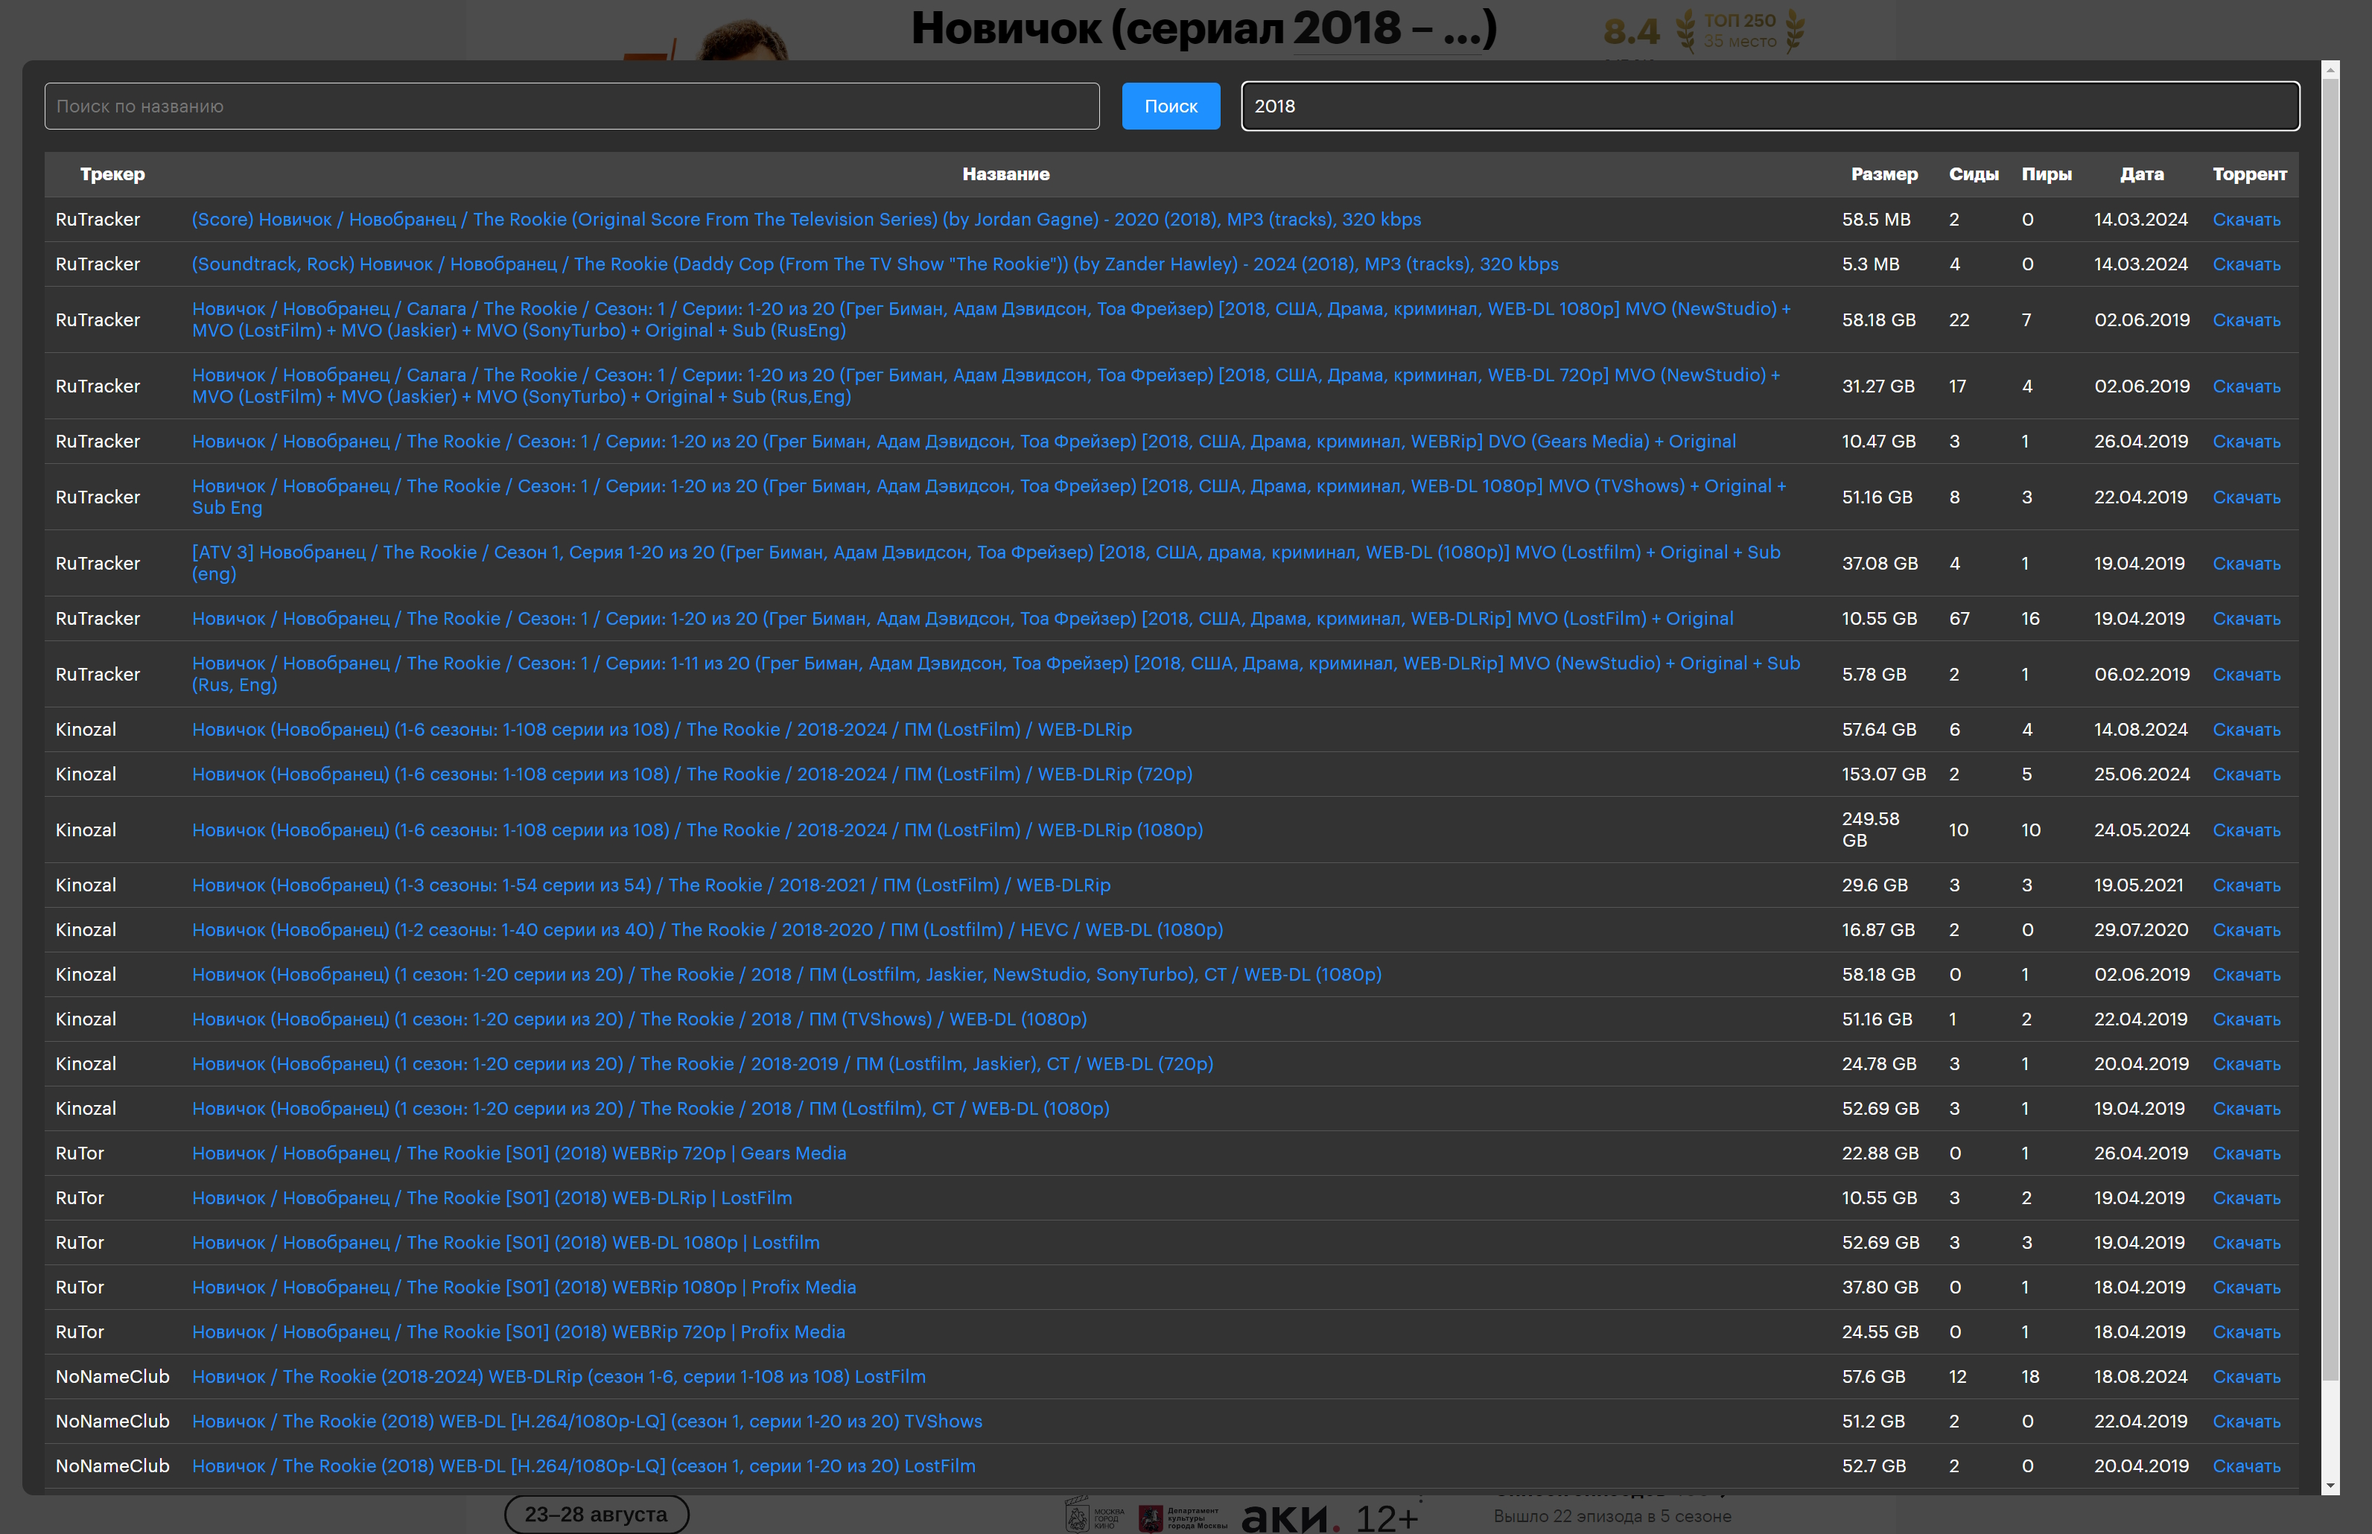
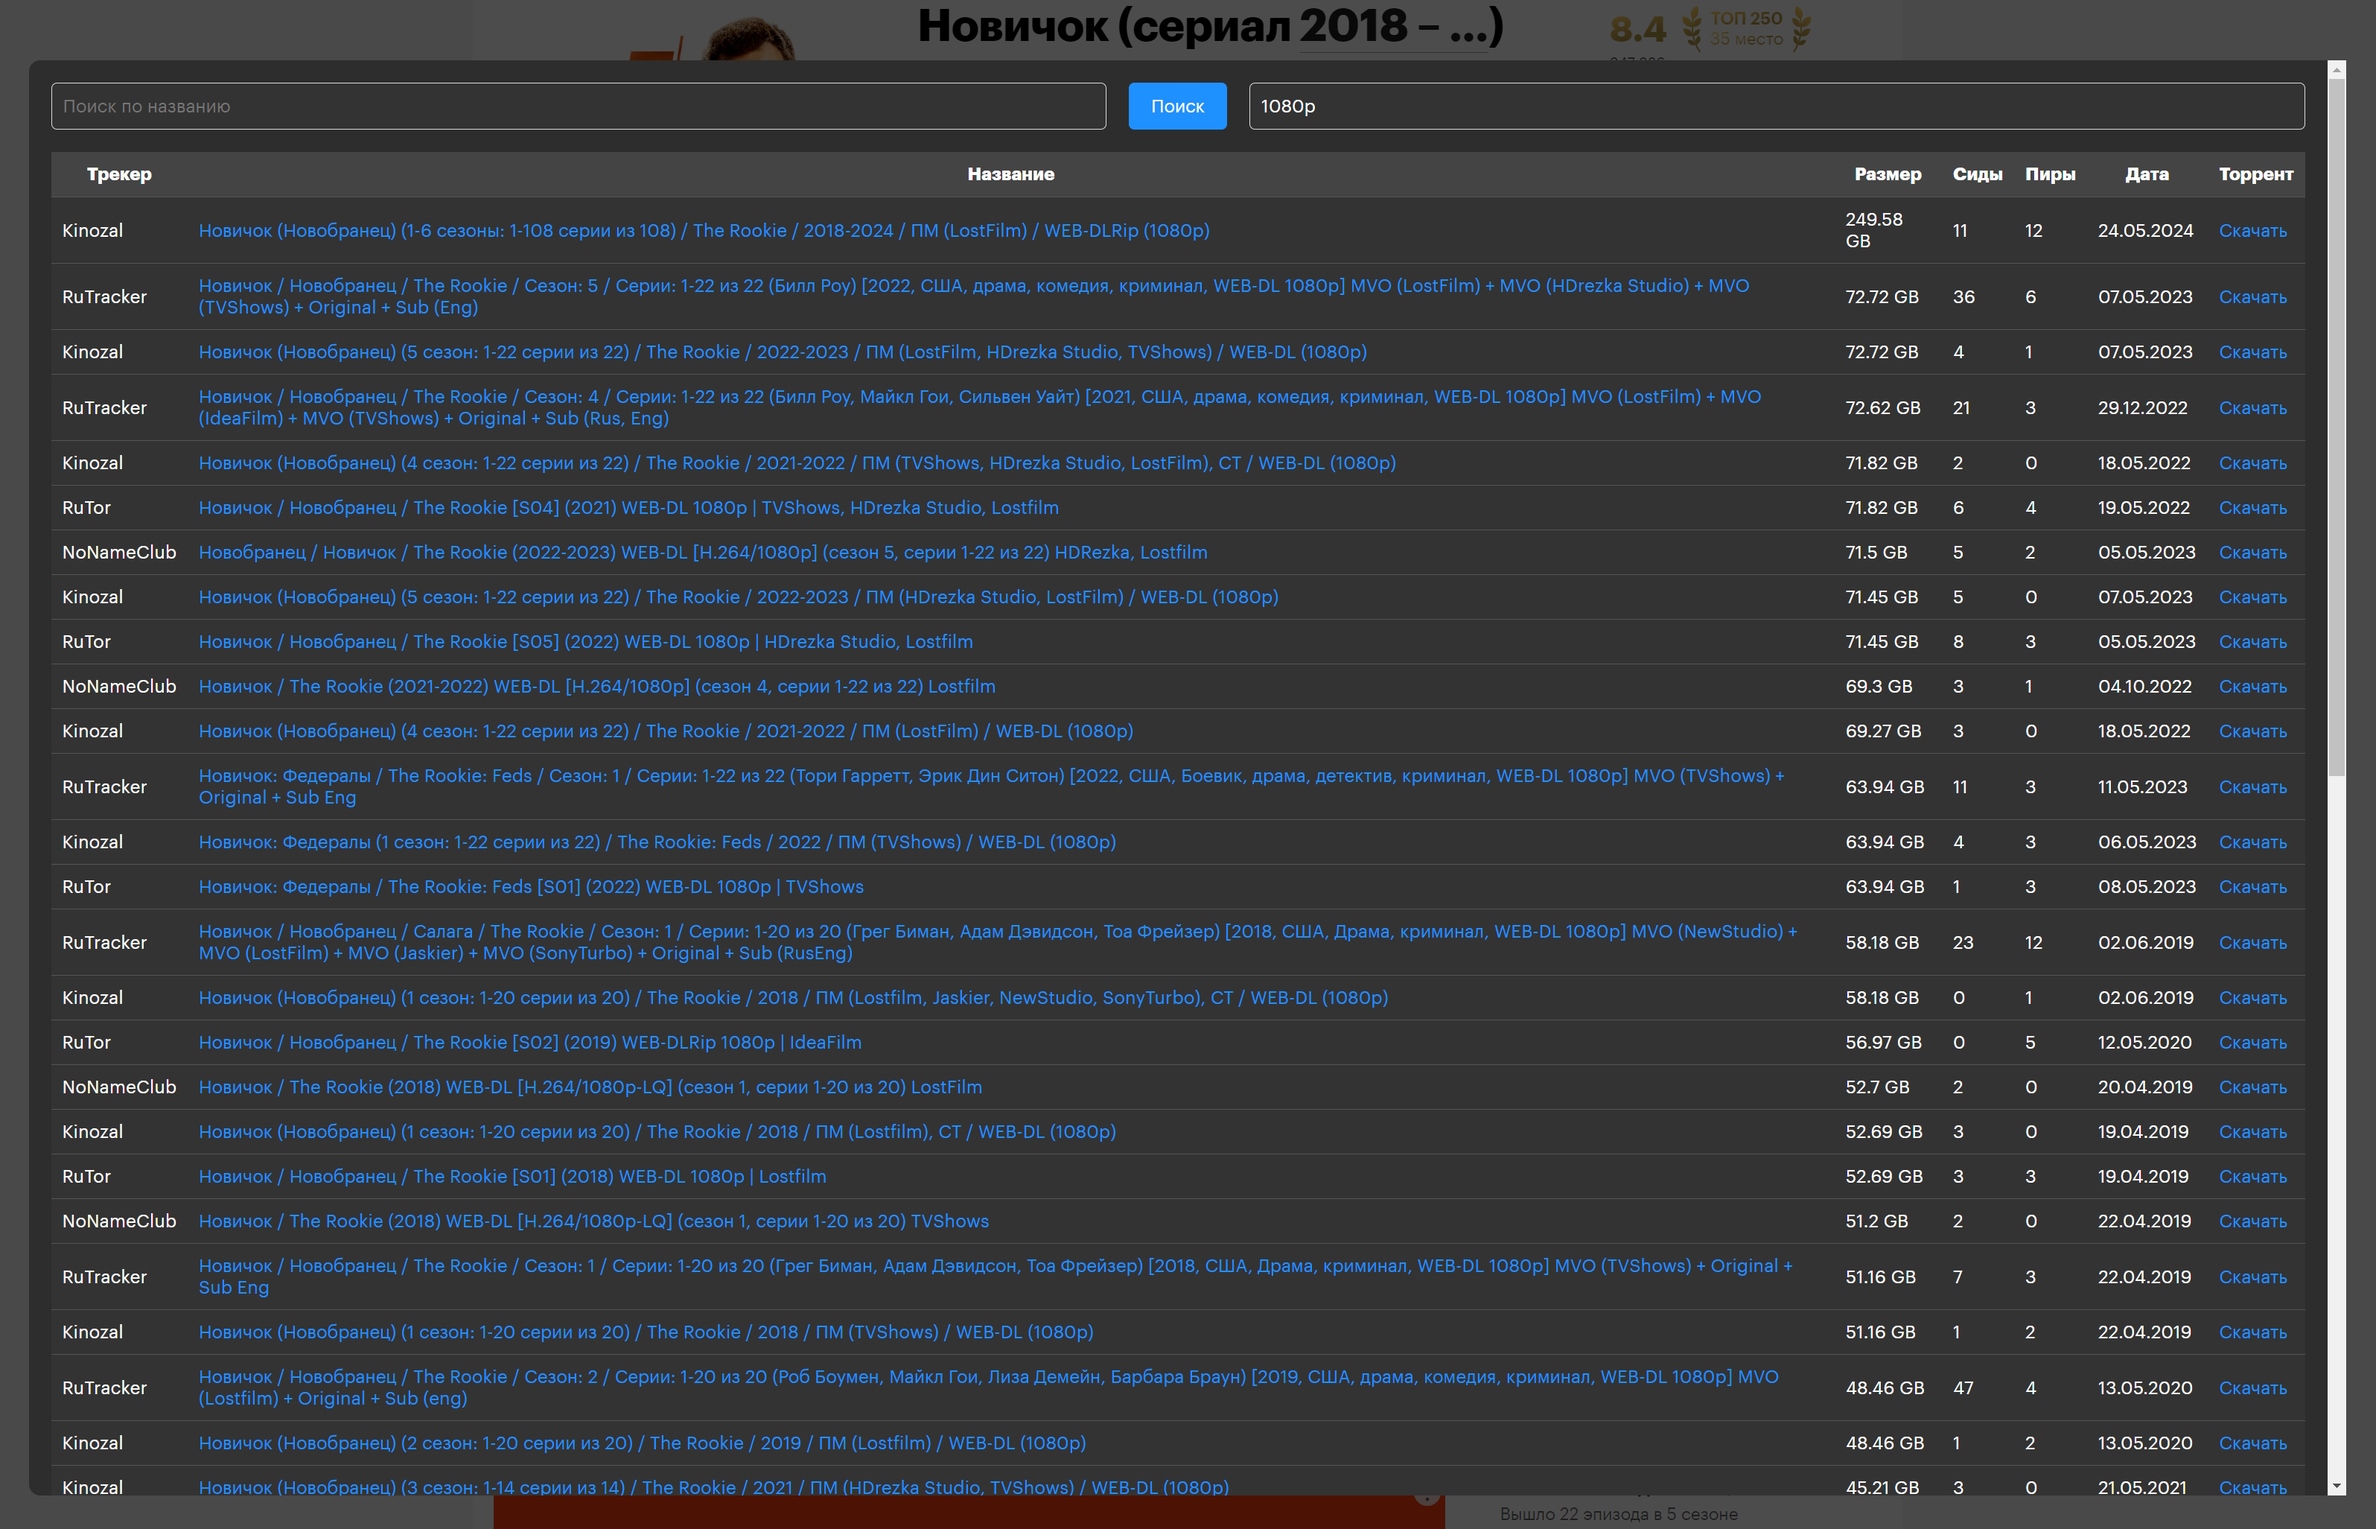
update size

diff --git a/ChromeExtension/torapi.js b/ChromeExtension/torapi.js
@@ -9,19 +9,19 @@ function displayTorrentsOnPage() {
         modal.style.left = '0';
         modal.style.width = '100%';
         modal.style.height = '100%';
-        modal.style.backgroundColor = '#444444';
+        modal.style.backgroundColor = 'rgba(0,0,0,0.7)';
         modal.style.zIndex = '10000';
         modal.style.display = 'flex';
         modal.style.flexDirection = 'column';
         modal.style.alignItems = 'center';
         modal.style.justifyContent = 'center';
         modal.style.fontFamily = 'Lato, sans-serif'; // Устанавливаем шрифт для модального окна
-        modal.style.fontSize = '18px'; // Размер шрифта
+        modal.style.fontSize = '16px'; // Размер шрифта
 
         // Контейнер для таблицы
         const tableContainer = document.createElement('div');
-        tableContainer.style.width = '90%';
-        tableContainer.style.height = '90%';
+        tableContainer.style.width = '80%';
+        tableContainer.style.height = '80%';
         tableContainer.style.backgroundColor = '#2d2d2d';
         tableContainer.style.padding = '20px';
         tableContainer.style.borderRadius = '10px';
@@ -30,7 +30,7 @@ function displayTorrentsOnPage() {
         tableContainer.style.display = 'flex';
         tableContainer.style.flexDirection = 'column';
         tableContainer.style.fontFamily = 'Lato, sans-serif';
-        tableContainer.style.fontSize = '18px';
+        tableContainer.style.fontSize = '16px';
 
         // Контейнер для поля ввода и кнопки поиска
         const searchContainer = document.createElement('div');
@@ -39,7 +39,7 @@ function displayTorrentsOnPage() {
         searchContainer.style.marginBottom = '10px';
         searchContainer.style.gap = '10px';
         searchContainer.style.fontFamily = 'Lato, sans-serif';
-        searchContainer.style.fontSize = '18px';
+        searchContainer.style.fontSize = '16px';
 
         // Стили для placeholder
         const styleElement = document.createElement('style');
@@ -47,11 +47,11 @@ function displayTorrentsOnPage() {
             input::placeholder {
                 font-family: 'Lato', sans-serif;
                 color: #888888;
-                font-size: 18px;
+                font-size: 16px;
             }
             input[type="text"]::placeholder {
                 color: #888888;
-                font-size: 18px;
+                font-size: 16px;
             }
         `;
         document.head.appendChild(styleElement);
@@ -71,7 +71,7 @@ function displayTorrentsOnPage() {
         searchInput.style.backgroundColor = '#333';
         searchInput.style.color = '#ffffff';
         searchInput.style.fontFamily = 'Lato, sans-serif';
-        searchInput.style.fontSize = '18px';
+        searchInput.style.fontSize = '16px';
 
         // Кнопка для выполнения поиска
         const searchButton = document.createElement('button');
@@ -87,7 +87,7 @@ function displayTorrentsOnPage() {
         searchButton.style.lineHeight = '22px';
         searchButton.style.marginTop = '-10px';
         searchButton.style.fontFamily = 'Lato, sans-serif';
-        searchButton.style.fontSize = '18px';
+        searchButton.style.fontSize = '16px';
 
         // Обработчик события для кнопки поиска
         searchButton.addEventListener('click', function() {
@@ -121,7 +121,7 @@ function displayTorrentsOnPage() {
         filterInput.style.backgroundColor = '#333';
         filterInput.style.color = '#ffffff';
         filterInput.style.fontFamily = 'Lato, sans-serif';
-        filterInput.style.fontSize = '18px';
+        filterInput.style.fontSize = '16px';
 
         // Функция для фильтрации
         filterInput.addEventListener('input', function() {
@@ -153,13 +153,13 @@ function displayTorrentsOnPage() {
         const tableHead = document.createElement('thead');
         tableHead.innerHTML = `
             <tr style="background-color: #444;">
-                <th style="padding: 10px; border-bottom: 1px solid #555555; cursor: pointer; font-family: Lato, sans-serif; font-size: 20px; text-align: center; font-weight: bold;">Трекер</th>
-                <th style="padding: 10px; border-bottom: 1px solid #555555; cursor: pointer; font-family: Lato, sans-serif; font-size: 20px; text-align: center; font-weight: bold;">Название</th>
-                <th style="padding: 10px; border-bottom: 1px solid #555555; cursor: pointer; font-family: Lato, sans-serif; font-size: 20px; text-align: center; font-weight: bold;">Размер</th>
-                <th style="padding: 10px; border-bottom: 1px solid #555555; cursor: pointer; font-family: Lato, sans-serif; font-size: 20px; text-align: center; font-weight: bold;">Сиды</th>
-                <th style="padding: 10px; border-bottom: 1px solid #555555; cursor: pointer; font-family: Lato, sans-serif; font-size: 20px; text-align: center; font-weight: bold;">Пиры</th>
-                <th style="padding: 10px; border-bottom: 1px solid #555555; cursor: pointer; font-family: Lato, sans-serif; font-size: 20px; text-align: center; font-weight: bold;">Дата</th>
-                <th style="padding: 10px; border-bottom: 1px solid #555555; cursor: pointer; font-family: Lato, sans-serif; font-size: 20px; text-align: center; font-weight: bold;">Торрент</th>
+                <th style="padding: 10px; border-bottom: 1px solid #555555; cursor: pointer; font-family: Lato, sans-serif; font-size: 18px; text-align: center; font-weight: bold;">Трекер</th>
+                <th style="padding: 10px; border-bottom: 1px solid #555555; cursor: pointer; font-family: Lato, sans-serif; font-size: 18px; text-align: center; font-weight: bold;">Название</th>
+                <th style="padding: 10px; border-bottom: 1px solid #555555; cursor: pointer; font-family: Lato, sans-serif; font-size: 18px; text-align: center; font-weight: bold;">Размер</th>
+                <th style="padding: 10px; border-bottom: 1px solid #555555; cursor: pointer; font-family: Lato, sans-serif; font-size: 18px; text-align: center; font-weight: bold;">Сиды</th>
+                <th style="padding: 10px; border-bottom: 1px solid #555555; cursor: pointer; font-family: Lato, sans-serif; font-size: 18px; text-align: center; font-weight: bold;">Пиры</th>
+                <th style="padding: 10px; border-bottom: 1px solid #555555; cursor: pointer; font-family: Lato, sans-serif; font-size: 18px; text-align: center; font-weight: bold;">Дата</th>
+                <th style="padding: 10px; border-bottom: 1px solid #555555; cursor: pointer; font-family: Lato, sans-serif; font-size: 18px; text-align: center; font-weight: bold;">Торрент</th>
             </tr>
         `;
         table.appendChild(tableHead);
@@ -291,27 +291,27 @@ function displayTorrentsOnPage() {
                     row.style.borderBottom = '1px solid #555555';
                     row.style.padding = '10px';
                     row.style.fontFamily = 'Lato, sans-serif';
-                    row.style.fontSize = '18px';
+                    row.style.fontSize = '16px';
                     row.innerHTML = `
-                        <td style="padding: 10px; border-bottom: 1px solid #555555; cursor: pointer; font-family: Lato, sans-serif; font-size: 18px; vertical-align: middle;">
+                        <td style="padding: 10px; border-bottom: 1px solid #555555; cursor: pointer; font-family: Lato, sans-serif; font-size: 16px; vertical-align: middle;">
                             ${source}
                         </td>
-                        <td style="padding: 10px; border-bottom: 1px solid #555555; cursor: pointer; font-family: Lato, sans-serif; font-size: 18px; vertical-align: middle;">
+                        <td style="padding: 10px; border-bottom: 1px solid #555555; cursor: pointer; font-family: Lato, sans-serif; font-size: 16px; vertical-align: middle;">
                             <a href="${item.Url}" target="_blank" style="color: #1e90ff; text-decoration: none;">${item.Name}</a>
                         </td>
-                        <td style="padding: 10px; border-bottom: 1px solid #555555; cursor: pointer; font-family: Lato, sans-serif; font-size: 18px; vertical-align: middle;">
+                        <td style="padding: 10px; border-bottom: 1px solid #555555; cursor: pointer; font-family: Lato, sans-serif; font-size: 16px; vertical-align: middle;">
                             ${item.Size}
                         </td>
-                        <td style="padding: 10px; border-bottom: 1px solid #555555; cursor: pointer; font-family: Lato, sans-serif; font-size: 18px; vertical-align: middle;">
+                        <td style="padding: 10px; border-bottom: 1px solid #555555; cursor: pointer; font-family: Lato, sans-serif; font-size: 16px; vertical-align: middle;">
                             ${item.Seeds}
                         </td>
-                        <td style="padding: 10px; border-bottom: 1px solid #555555; cursor: pointer; font-family: Lato, sans-serif; font-size: 18px; vertical-align: middle;">
+                        <td style="padding: 10px; border-bottom: 1px solid #555555; cursor: pointer; font-family: Lato, sans-serif; font-size: 16px; vertical-align: middle;">
                             ${item.Peers}
                         </td>
-                        <td style="padding: 10px; border-bottom: 1px solid #555555; cursor: pointer; font-family: Lato, sans-serif; font-size: 18px; vertical-align: middle;">
+                        <td style="padding: 10px; border-bottom: 1px solid #555555; cursor: pointer; font-family: Lato, sans-serif; font-size: 16px; vertical-align: middle;">
                             ${item.Date.split(' ')[0]}
                         </td>
-                        <td style="padding: 10px; border-bottom: 1px solid #555555; cursor: pointer; font-family: Lato, sans-serif; font-size: 18px; vertical-align: middle;">
+                        <td style="padding: 10px; border-bottom: 1px solid #555555; cursor: pointer; font-family: Lato, sans-serif; font-size: 16px; vertical-align: middle;">
                             <a href="${item.Torrent}" target="_blank" style="color: #1e90ff; text-decoration: none;">Скачать</a>
                         </td>
                     `;
